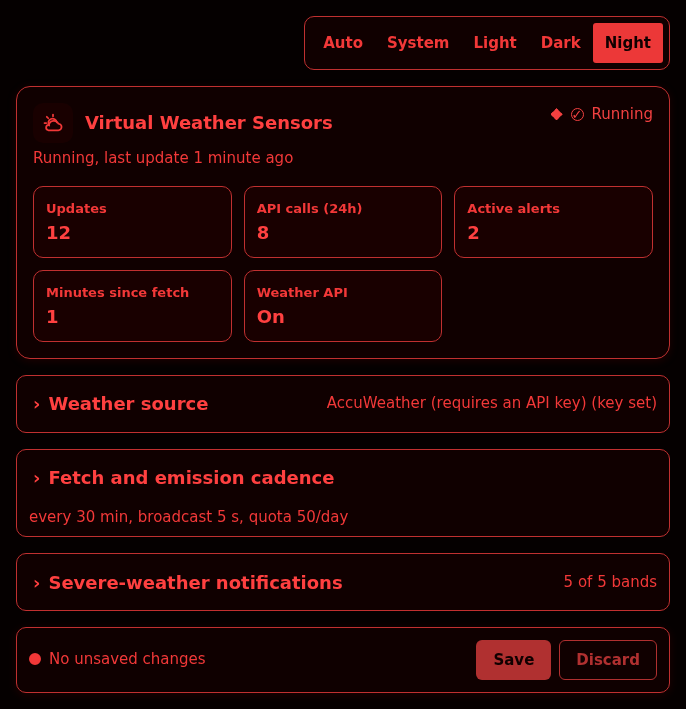
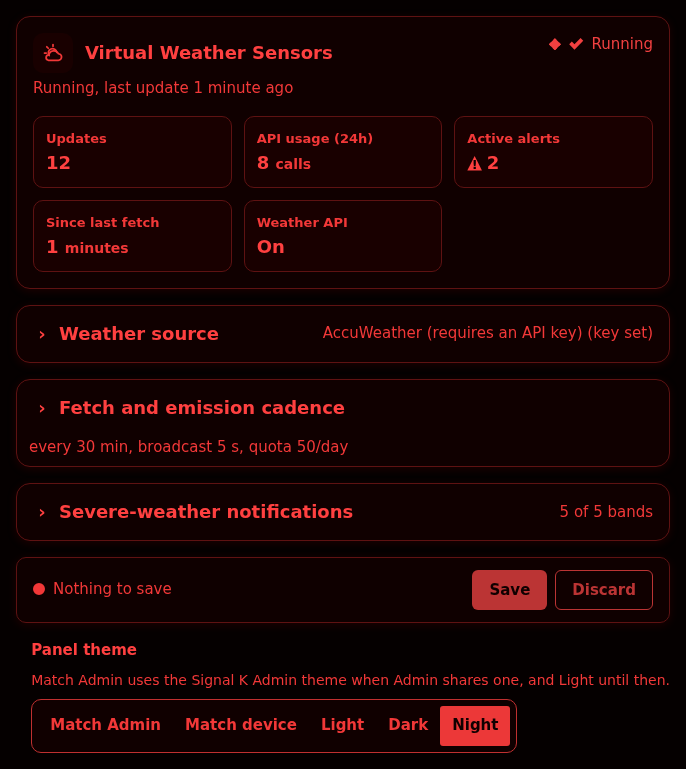
release: prepare 1.15.0
- Version 1.15.0 in package.json and the lockfile.
- Dated CHANGELOG section with its v1150 anchor, plus an internal cleanup
  entry.
- README "What's new" rewritten for 1.15.0.
- SECURITY supports 1.15.x, and the bug report placeholders name 1.15.0 and a
  Node release Signal K server runs on.
- Panel screenshots regenerated against the shared marine UI 0.14.0.

diff --git a/README.md b/README.md
@@ -18,63 +18,32 @@ service; AccuWeather is an optional source for users who have an API key.
 > for safety-of-life decisions: always cross-check official forecasts and
 > warnings against your primary instruments.
 
-## What's new in 1.14.0
+## What's new in 1.15.0
 
-Version 1.14.0 keeps your AccuWeather API key out of request URLs, makes the
-documented AccuWeather call budget true, corrects several readings and the
-status the plugin reports about itself, makes merged mode conservative about
-the values a warning reads, and rebuilds the configuration panel on the shared
-marine UI 0.11.1. Emitted paths and saved configuration fields are unchanged.
+Version 1.15.0 corrects several weather readings and alerts after a live check
+of every data source, moves the configuration panel to the shared marine UI
+0.14.0, and brings the development toolchain current. Emitted paths and saved
+configuration fields are unchanged.
 
-- **Your API key stays out of request URLs.** AccuWeather requests now
-  authenticate with the `Authorization: Bearer` header AccuWeather documents,
-  instead of an `apikey` query parameter, so the key cannot leak through a log
-  line or an error body that echoes the URL.
-- **The documented call budget is now true.** The location-key cache is held
-  for 24 hours per 1 km cell, and the fetch timer's jitter only lengthens the
-  interval, so the default 30-minute cadence costs at most 48 conditions calls
-  plus 1 location lookup per day at a fixed position. The old hourly cache,
-  keyed to about 11 m, pushed a docked vessel past the default 50-call quota
-  while every document still claimed 48.
-- **Warnings work outside the US and Norway.** A position beyond NWS and MET
-  Norway coverage returns an empty warning list, which is what the paths guide
-  always described, instead of an error the server reported to consumers as an
-  HTTP 400.
-- **Warnings say what the instruments say.** Heat-stress bands open at the
-  temperature they name rather than a tenth of a degree late, emitted
-  temperatures are no longer clamped to a sensor envelope that published a
-  -44.6 C wind chill as -40.0 C, visibility in a message is rounded down so it
-  can never read above the threshold that fired it, and an active notification
-  is marked with the observation age instead of sitting unlabeled through a
-  provider outage.
-- **Merged mode no longer averages away a warning.** Every value a
-  notification band reads is taken conservatively from the contributing
-  sources, so one provider reporting gale force is not cancelled by a milder
-  sibling, and the banner names any source that has stopped contributing.
-- **The banner tells you which thing is wrong.** A rejected key, a quota pause,
-  a missing position, stale data, and a failed fetch each hold the banner until
-  they clear, instead of being overwritten seconds later by a green status line.
-  A slow position source no longer strands the plugin: position now gets a
-  30-minute age budget of its own.
-- **Better readings from the keyless sources.** Open-Meteo's past-hour
-  precipitation is the real past hour rather than a 15-minute sum, Met.no
-  reports only whole forecast days instead of labeling a single evening window
-  as today, and Met.no revalidates its forecast document instead of refetching
-  it.
-- **A panel you can read and hear.** Save status is shaped and labeled rather
-  than carried by color alone, every field error leads with a glyph and a
-  spoken tone word, the API key test result and the merge-order and freshness
-  announcements each speak once instead of twice, and the concealed key field
-  asks the browser not to offer or save the key. A locked merge-provider row
-  stays focusable, so unchecking the second-to-last source no longer drops
-  keyboard focus onto the page.
-- **Shared marine UI 0.11.1.** The panel moves onto the library's panel shell,
-  save bar, number field, and status section. Save is blocked, naming the
-  section, while a cadence value is invalid, Save and Discard keep their place
-  in the tab order while it is, a refused save is reported in its own banner,
-  and a panel error now offers Try again instead of a blank card.
+- **Heavy thunderstorms raise an alert under Open-Meteo.** WMO code 97, which
+  models without a hail forecast report for every strong thunderstorm, was
+  unmapped, so those storms raised no severe-weather notification.
+- **Past-hour precipitation is a rolling hour.** Open-Meteo's
+  `precipitationLastHour` sums the four 15-minute buckets that end at the
+  observation instead of reading the last completed clock hour, which lagged
+  by up to 59 minutes and could read 0 mm while it rained.
+- **Warnings reach the US territories and fail less.** Guam, the Northern
+  Marianas, the western Aleutians, and American Samoa now get NWS warnings, and
+  a position near the US that NWS does not cover, such as British Columbia,
+  Bermuda, or Mexico, gets an empty list instead of an error.
+- **The banner reports a quota only where one exists.** A keyless install no
+  longer shows `0/50 today`, and a merged configuration that falls back to
+  AccuWeather alone stops retrying a rejected key.
+- **Shared marine UI 0.14.0.** A save the plugin cannot hand to Signal K shows
+  in the save bar with Save still available, a refused API key or base URL
+  moves focus to its field, and locked controls say why they are blocked.
 
-See the [v1.14.0 changelog entry](https://github.com/NearlCrews/signalk-virtual-weather-sensors/blob/main/CHANGELOG.md#v1140), or the
+See the [v1.15.0 changelog entry](https://github.com/NearlCrews/signalk-virtual-weather-sensors/blob/main/CHANGELOG.md#v1150), or the
 [full changelog](https://github.com/NearlCrews/signalk-virtual-weather-sensors/blob/main/CHANGELOG.md).
 
 ## What it does

diff --git a/CHANGELOG.md b/CHANGELOG.md
@@ -7,6 +7,10 @@ and this project adheres to [Semantic Versioning](https://semver.org/spec/v2.0.0
 
 ## [Unreleased]
 
+<a id="v1150"></a>
+
+## [1.15.0] - 2026-10-16
+
 ### Fixed
 
 - Open-Meteo's heavy thunderstorm code (WMO 97) raises the severe-weather
@@ -62,6 +66,13 @@ and this project adheres to [Semantic Versioning](https://semver.org/spec/v2.0.0
   20.18 runtime-floor lane is the only CI coverage of Node 20, and no CI lane
   runs on 32-bit ARM hardware such as the Cerbo GX. The advertised runtime
   floor is unchanged.
+- Internal cleanup with no change to emitted data, notifications, or
+  configuration: the measurement and sea-state leaves are each emitted from
+  one ordered table, the wind, visibility, heat, and cold notification bands
+  run through one loop, the keyless providers share one request counter and
+  one builder for their core readings, unit conversions and condition
+  descriptions each have one helper, and the unused cache and health status
+  accessors are gone.
 
 <a id="v1140"></a>
 

diff --git a/.github/SECURITY.md b/.github/SECURITY.md
@@ -6,8 +6,8 @@ We actively support the following versions with security updates:
 
 | Version | Supported |
 | ------- | --------- |
-| 1.13.x  | Yes       |
-| < 1.13  | No        |
+| 1.15.x  | Yes       |
+| < 1.15  | No        |
 
 ## Reporting a Vulnerability
 
